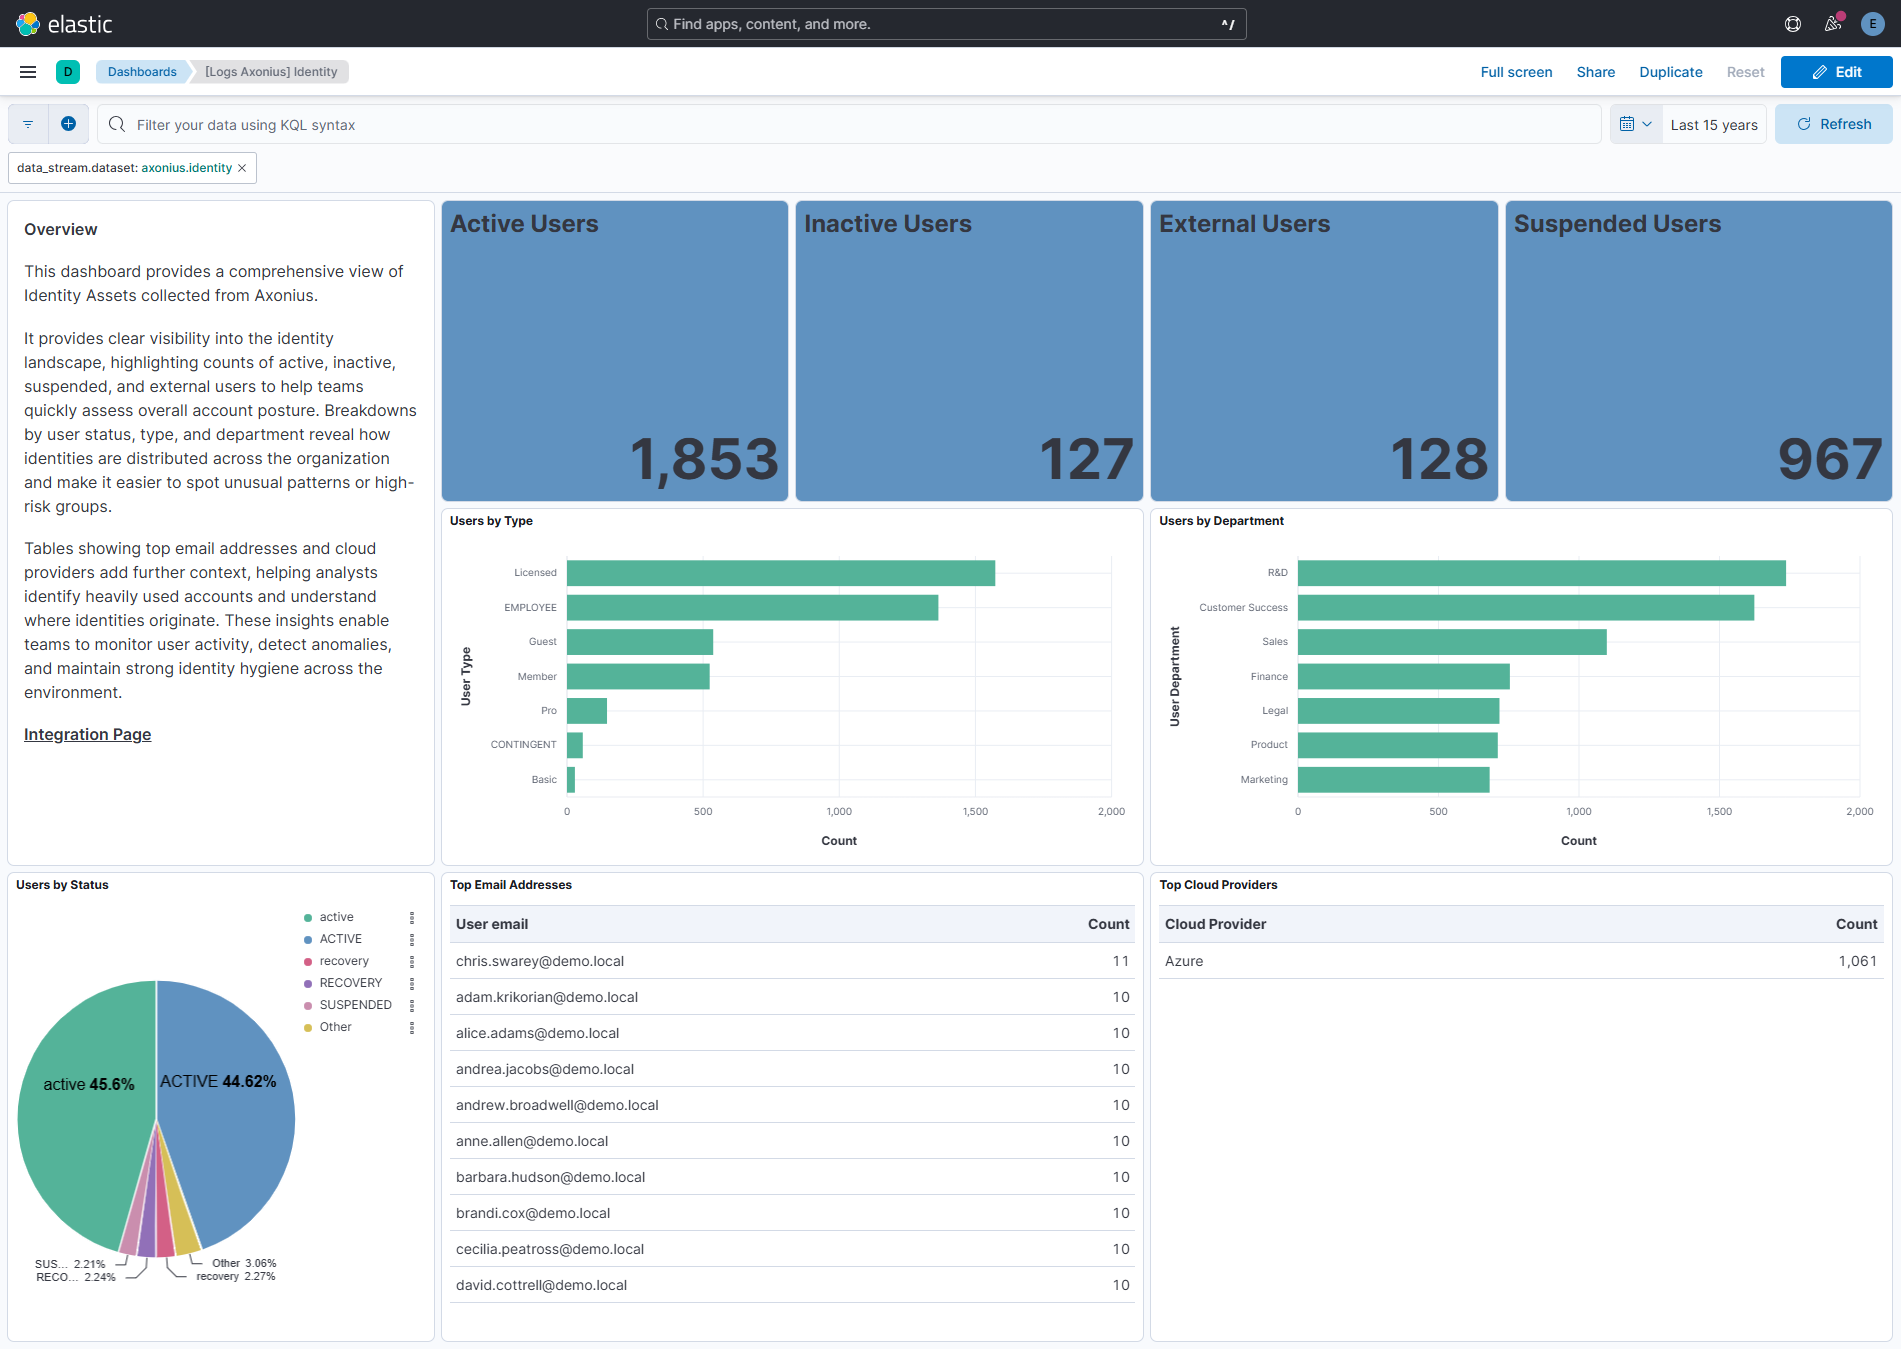
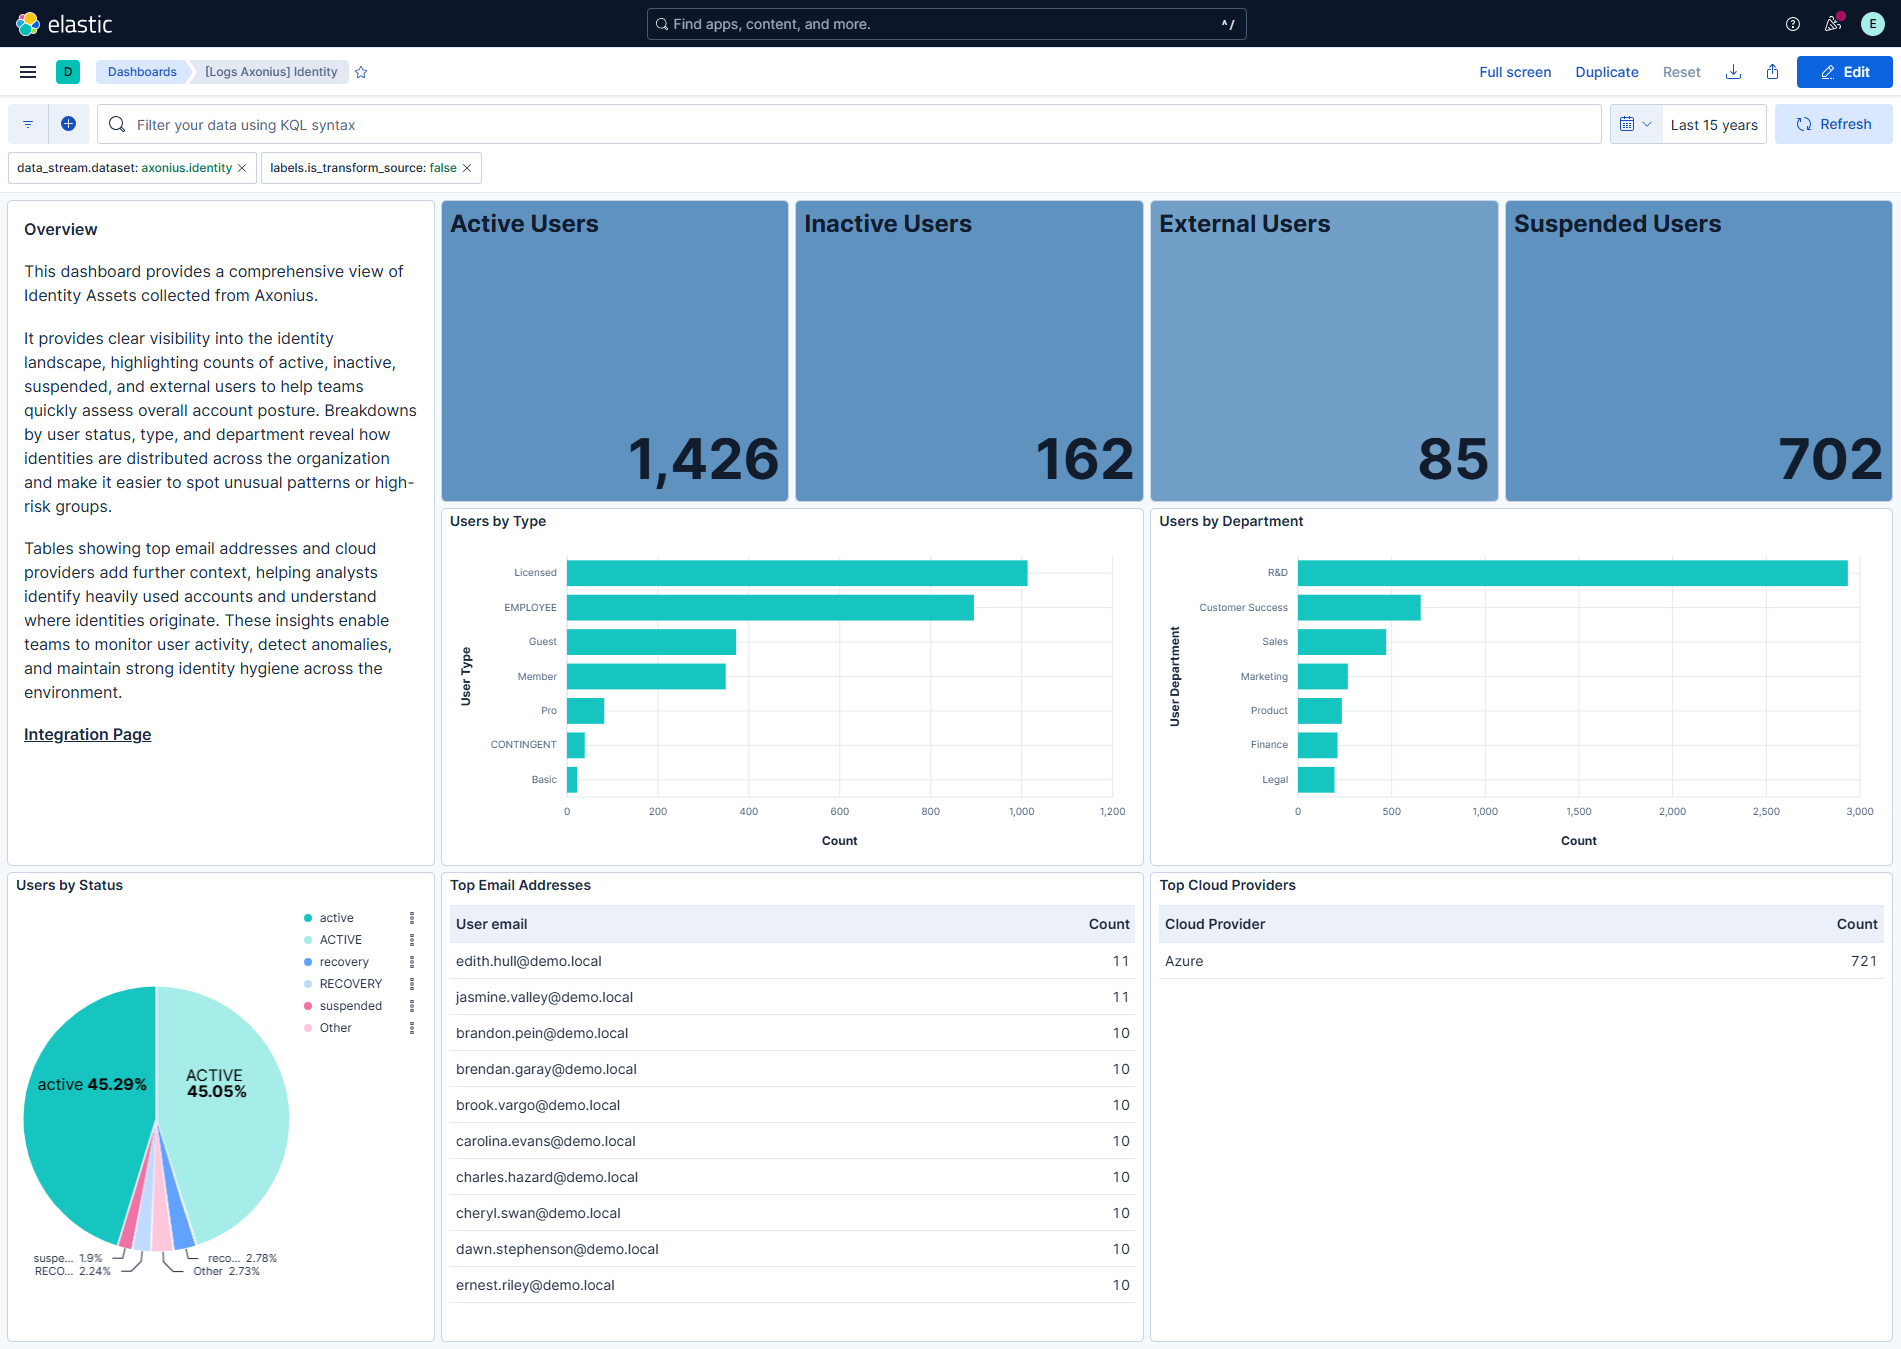
Added transform pipeline

diff --git a/packages/axonius/docs/README.md b/packages/axonius/docs/README.md
@@ -31,11 +31,15 @@ This integration collects log messages of the following type:
 
 ### Supported use cases
 
-Integrating the Axonius Identity Datastream with Elastic SIEM provides a unified view of users, groups, roles, organizational units, accounts, permissions, certificates, profiles, and access-review activity. Metrics and breakdowns help teams quickly assess identity posture by highlighting active, inactive, suspended, and external users, as well as patterns across user types and departments.
+Integrating the Axonius Identity Datastream with Elastic SIEM provides a unified view of users, groups, roles, organizational units, accounts, permissions, certificates, profiles, and access review activity. Metrics and breakdowns help teams quickly assess identity posture by highlighting active, inactive, suspended, and external users, as well as patterns across user types and departments.
 
 Tables showing top email addresses and cloud providers add context into frequently used identities and their sources. These insights help security and IAM teams detect identity anomalies, validate account hygiene, and maintain strong visibility into access across the organization.
 
 ## What do I need to use this integration?
+
+### From Elastic
+
+This integration installs [Elastic latest transforms](https://www.elastic.co/docs/explore-analyze/transforms/transform-overview#latest-transform-overview). For more details, check the [Transform](https://www.elastic.co/docs/explore-analyze/transforms/transform-setup) setup and requirements.
 
 ### From Axonius
 
@@ -47,7 +51,13 @@ To collect data through the Axonius APIs, you need to provide the **URL**, **API
 2. Your instance URL is your Base **URL**.
 3. Navigate to **User Settings > API Key**.
 4. Generate an **API Key**.
-5. Copy both values including **API Key and Secret Key** and store them securely for use in the Integration configuration.
+5. If you do not see the API Key tab in your user settings, follow these steps:
+    1.  Go to **System Settings** > **User and Role Management** > **Service Accounts**.
+    2. Create a Service Account, and then generate an **API Key**.
+6. Copy both values including **API Key and Secret Key** and store them securely for use in the Integration configuration.
+
+**Note:**
+To generate or reset an API key, your role must be **Admin**, and you must have **API Access** permissions, which include **API Access Enabled** and **Reset API Key**.
 
 ## How do I deploy this integration?
 
@@ -86,6 +96,13 @@ For more information, refer to [Agentless integrations](https://www.elastic.co/g
 
 1. In the top search bar in Kibana, search for **Dashboards**.
 2. In the search bar, type **Axonius**, and verify the dashboard information is populated.
+
+#### Transforms healthy
+
+1. In the top search bar in Kibana, search for **Transforms**.
+2. Select the **Data / Transforms** from the search results.
+3. In the search bar, type **axonius**.
+4. All transforms from the search results should indicate **Healthy** under the **Health** column.
 
 ## Troubleshooting
 
@@ -530,12 +547,14 @@ The `identity` data stream provides identity asset logs from axonius.
 | axonius.identity.event.quick_id |  | keyword |
 | axonius.identity.event.type |  | keyword |
 | axonius.identity.internal_axon_id |  | keyword |
+| axonius.identity.transform_unique_id |  | keyword |
 | data_stream.dataset | The field can contain anything that makes sense to signify the source of the data. Examples include `nginx.access`, `prometheus`, `endpoint` etc. For data streams that otherwise fit, but that do not have dataset set we use the value "generic" for the dataset value. `event.dataset` should have the same value as `data_stream.dataset`. Beyond the Elasticsearch data stream naming criteria noted above, the `dataset` value has additional restrictions:   \* Must not contain `-`   \* No longer than 100 characters | constant_keyword |
 | data_stream.namespace | A user defined namespace. Namespaces are useful to allow grouping of data. Many users already organize their indices this way, and the data stream naming scheme now provides this best practice as a default. Many users will populate this field with `default`. If no value is used, it falls back to `default`. Beyond the Elasticsearch index naming criteria noted above, `namespace` value has the additional restrictions:   \* Must not contain `-`   \* No longer than 100 characters | constant_keyword |
 | data_stream.type | An overarching type for the data stream. Currently allowed values are "logs" and "metrics". We expect to also add "traces" and "synthetics" in the near future. | constant_keyword |
 | event.dataset | Name of the dataset. If an event source publishes more than one type of log or events (e.g. access log, error log), the dataset is used to specify which one the event comes from. It's recommended but not required to start the dataset name with the module name, followed by a dot, then the dataset name. | constant_keyword |
 | event.module | Name of the module this data is coming from. If your monitoring agent supports the concept of modules or plugins to process events of a given source (e.g. Apache logs), `event.module` should contain the name of this module. | constant_keyword |
 | input.type | Type of filebeat input. | keyword |
+| labels.is_transform_source | Distinguishes between documents that are a source for a transform and documents that are an output of a transform, to facilitate easier filtering. | constant_keyword |
 | log.offset | Log offset. | long |
 | observer.vendor | Vendor name of the observer. | constant_keyword |
 
@@ -546,9 +565,9 @@ An example event for `identity` looks as following:
 {
     "@timestamp": "2025-12-09T12:02:11.000Z",
     "agent": {
-        "ephemeral_id": "fa5bf2ae-a8ba-4b17-8ea6-c1f94cf39fd0",
-        "id": "9e2501d5-affe-4b18-9946-d7093484df30",
-        "name": "elastic-agent-38295",
+        "ephemeral_id": "ba91a9bf-40c9-4bab-8184-9be7d6c2ad8f",
+        "id": "f7715edc-eff0-4526-b250-1a56517c01e0",
+        "name": "elastic-agent-41335",
         "type": "filebeat",
         "version": "8.18.0"
     },
@@ -659,7 +678,8 @@ An example event for `identity` looks as following:
                 "quick_id": "azure_ad_adapter_0!c8103abe-eda9-472b-894a-6260bb2ba8cc",
                 "type": "entitydata"
             },
-            "internal_axon_id": "bc11b2989fc0f69708b6865d172a49fe"
+            "internal_axon_id": "bc11b2989fc0f69708b6865d172a49fe",
+            "transform_unique_id": "N8G3qDAOmSElCdviQ3d6FpD76pE="
         }
     },
     "cloud": {
@@ -670,14 +690,14 @@ An example event for `identity` looks as following:
     },
     "data_stream": {
         "dataset": "axonius.identity",
-        "namespace": "52700",
+        "namespace": "56452",
         "type": "logs"
     },
     "ecs": {
         "version": "9.2.0"
     },
     "elastic_agent": {
-        "id": "9e2501d5-affe-4b18-9946-d7093484df30",
+        "id": "f7715edc-eff0-4526-b250-1a56517c01e0",
         "snapshot": false,
         "version": "8.18.0"
     },
@@ -688,9 +708,8 @@ An example event for `identity` looks as following:
         ],
         "created": "2024-06-28T08:49:28.000Z",
         "dataset": "axonius.identity",
-        "ingested": "2025-12-18T12:07:36Z",
+        "ingested": "2025-12-26T10:17:19Z",
         "kind": "event",
-        "original": "{\"adapter_list_length\":12,\"adapters\":[\"aws_adapter\",\"zoom_adapter\"],\"asset_type\":\"users\",\"event\":{\"accurate_for_datetime\":\"Tue, 09 Dec 2025 12:02:11 GMT\",\"adapter_categories\":[\"Directory\",\"IAM\",\"SaaS Management\"],\"client_used\":\"67fd09bbfe1c8e812a176bb5\",\"data\":{\"account_disabled\":true,\"accurate_for_datetime\":\"Tue, 09 Dec 2025 12:02:11 GMT\",\"application_and_account_name\":\"microsoft/azure_ad-demo\",\"associated_groups\":[{\"display_name\":\"developers-group\",\"remote_id\":\"a3e70162\"}],\"azure_account_id\":\"c8103abe-eda9-472b-894a-6260bb2ba8cc\",\"cloud_provider\":\"Azure\",\"email_activity\":{\"is_deleted\":false,\"product_license\":\"MICROSOFT FABRIC (FREE)+MICROSOFT TEAMS PHONE STANDARD+MICROSOFT DEFENDER FOR OFFICE365 (PLAN 2)+MICROSOFT 365 AUDIO CONFERENCING+ENTERPRISE MOBILITY + SECURITY E3+OFFICE365 E3+MICROSOFT 365 E3 EXTRA FEATURES\",\"read_count\":2321,\"receive_count\":6965,\"report_date\":\"Fri, 10 Jan 2025 20:34:43 GMT\",\"report_period\":90,\"send_count\":3030},\"fetch_time\":\"Tue, 09 Dec 2025 12:02:03 GMT\",\"first_fetch_time\":\"Mon, 14 Apr 2025 13:27:00 GMT\",\"from_last_fetch\":true,\"has_administrative_permissions\":true,\"id\":\"c8103abe-eda9-472b-894a-6260bb2ba8cc\",\"internal_is_admin\":false,\"is_admin\":false,\"is_fetched_from_adapter\":true,\"is_latest_last_seen\":true,\"is_managed_by_application\":true,\"is_permission_adapter\":true,\"is_saas_user\":true,\"is_user_external\":false,\"last_fetch_connection_id\":\"67fd09bbfe1c8e812a176bb5\",\"last_fetch_connection_label\":\"azure_ad-demo\",\"last_logon\":\"Sun, 30 Nov 2025 18:50:39 GMT\",\"last_seen\":\"Mon, 10 Nov 2025 22:18:25 GMT\",\"mail\":\"helen.jordan@demo.local\",\"nested_applications\":[{\"app_display_name\":\"Calendly\",\"assignment_type\":\"Direct\",\"extension_type\":\"User Consent\",\"is_managed\":false,\"is_unmanaged_extension\":true,\"name\":\"Calendly\",\"parents\":[{\"name\":\"\",\"value\":\"\"}],\"permissions\":[{\"name\":\"openid\"}],\"relation_extension_name\":\"Calendly\",\"source_application\":\"Microsoft\",\"value\":\"2E2a2e7c9f758BDcC0E2\",\"vendor_category\":\"Productivity\"}],\"nested_associated_devices\":[],\"nested_grants_last_updated\":\"Tue, 09 Dec 2025 12:10:06 GMT\",\"nested_grants_managers_last_updated\":\"Tue, 09 Dec 2025 12:10:10 GMT\",\"nested_groups\":[{\"assignment_type\":\"Direct\",\"name\":\"Office365 Users\",\"parents\":[{\"name\":\"\",\"value\":\"\"}],\"value\":\"d8e66837\"}],\"nested_managers\":[],\"nested_resources\":[],\"nested_roles\":[],\"not_fetched_count\":0,\"sm_entity_type\":\"saas_user\",\"source_application\":\"Microsoft\",\"tenant_number\":[\"2\"],\"user_apps\":[],\"user_created\":\"Fri, 28 Jun 2024 08:49:28 GMT\",\"user_permissions\":[{\"is_admin\":false,\"name\":\"OnlineMeetings.ReadWrite\"}],\"user_remote_id\":\"63d52bb0-7ce0-4467-9004-2b19c06b86ae\",\"user_type\":\"Member\",\"username\":\"helen.jordan@demo.local\"},\"initial_plugin_unique_name\":\"azure_ad_adapter_0\",\"plugin_name\":\"azure_ad_adapter\",\"plugin_type\":\"Adapter\",\"plugin_unique_name\":\"azure_ad_adapter_0\",\"quick_id\":\"azure_ad_adapter_0!c8103abe-eda9-472b-894a-6260bb2ba8cc\",\"type\":\"entitydata\"},\"internal_axon_id\":\"bc11b2989fc0f69708b6865d172a49fe\"}",
         "type": [
             "info"
         ]
@@ -705,7 +724,6 @@ An example event for `identity` looks as following:
         ]
     },
     "tags": [
-        "preserve_original_event",
         "preserve_duplicate_custom_fields",
         "forwarded",
         "axonius-identity"
@@ -764,3 +782,7 @@ These APIs are used with this integration:
     * job_titles (endpoint: `/api/v2/job_titles`)
     * access_review_campaign_instances (endpoint: `/api/v2/access_review_campaign_instances`)
     * access_review_approval_items (endpoint: `/api/v2/access_review_approval_items`)
+
+#### ILM Policy
+
+To facilitate identity data, source data stream-backed indices `.ds-logs-axonius.identity-*` are allowed to contain duplicates from each polling interval. ILM policy `logs-axonius.identity-default_policy` is added to these source indices, so it doesn't lead to unbounded growth. This means that in these source indices data will be deleted after `30 days` from ingested date.

diff --git a/packages/axonius/_dev/build/docs/README.md b/packages/axonius/_dev/build/docs/README.md
@@ -31,11 +31,15 @@ This integration collects log messages of the following type:
 
 ### Supported use cases
 
-Integrating the Axonius Identity Datastream with Elastic SIEM provides a unified view of users, groups, roles, organizational units, accounts, permissions, certificates, profiles, and access-review activity. Metrics and breakdowns help teams quickly assess identity posture by highlighting active, inactive, suspended, and external users, as well as patterns across user types and departments.
+Integrating the Axonius Identity Datastream with Elastic SIEM provides a unified view of users, groups, roles, organizational units, accounts, permissions, certificates, profiles, and access review activity. Metrics and breakdowns help teams quickly assess identity posture by highlighting active, inactive, suspended, and external users, as well as patterns across user types and departments.
 
 Tables showing top email addresses and cloud providers add context into frequently used identities and their sources. These insights help security and IAM teams detect identity anomalies, validate account hygiene, and maintain strong visibility into access across the organization.
 
 ## What do I need to use this integration?
+
+### From Elastic
+
+This integration installs [Elastic latest transforms](https://www.elastic.co/docs/explore-analyze/transforms/transform-overview#latest-transform-overview). For more details, check the [Transform](https://www.elastic.co/docs/explore-analyze/transforms/transform-setup) setup and requirements.
 
 ### From Axonius
 
@@ -47,7 +51,13 @@ To collect data through the Axonius APIs, you need to provide the **URL**, **API
 2. Your instance URL is your Base **URL**.
 3. Navigate to **User Settings > API Key**.
 4. Generate an **API Key**.
-5. Copy both values including **API Key and Secret Key** and store them securely for use in the Integration configuration.
+5. If you do not see the API Key tab in your user settings, follow these steps:
+    1.  Go to **System Settings** > **User and Role Management** > **Service Accounts**.
+    2. Create a Service Account, and then generate an **API Key**.
+6. Copy both values including **API Key and Secret Key** and store them securely for use in the Integration configuration.
+
+**Note:**
+To generate or reset an API key, your role must be **Admin**, and you must have **API Access** permissions, which include **API Access Enabled** and **Reset API Key**.
 
 ## How do I deploy this integration?
 
@@ -86,6 +96,13 @@ For more information, refer to [Agentless integrations](https://www.elastic.co/g
 
 1. In the top search bar in Kibana, search for **Dashboards**.
 2. In the search bar, type **Axonius**, and verify the dashboard information is populated.
+
+#### Transforms healthy
+
+1. In the top search bar in Kibana, search for **Transforms**.
+2. Select the **Data / Transforms** from the search results.
+3. In the search bar, type **axonius**.
+4. All transforms from the search results should indicate **Healthy** under the **Health** column.
 
 ## Troubleshooting
 
@@ -128,3 +145,7 @@ These APIs are used with this integration:
     * job_titles (endpoint: `/api/v2/job_titles`)
     * access_review_campaign_instances (endpoint: `/api/v2/access_review_campaign_instances`)
     * access_review_approval_items (endpoint: `/api/v2/access_review_approval_items`)
+
+#### ILM Policy
+
+To facilitate identity data, source data stream-backed indices `.ds-logs-axonius.identity-*` are allowed to contain duplicates from each polling interval. ILM policy `logs-axonius.identity-default_policy` is added to these source indices, so it doesn't lead to unbounded growth. This means that in these source indices data will be deleted after `30 days` from ingested date.
